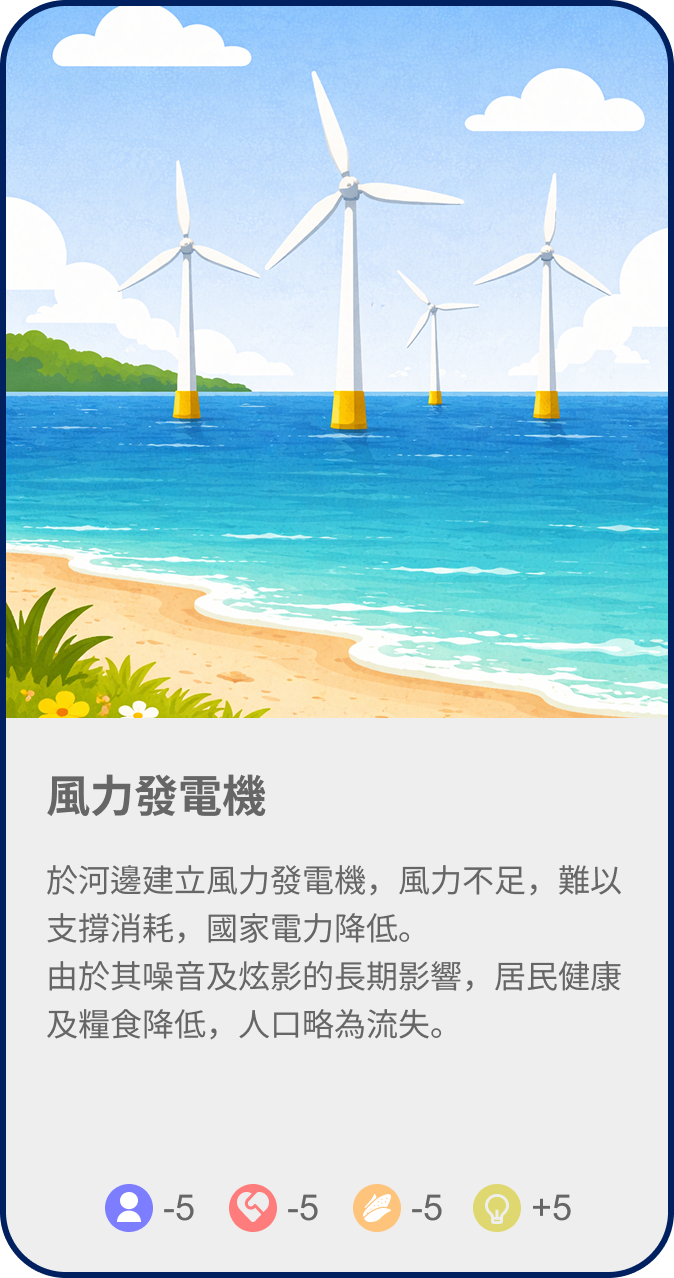
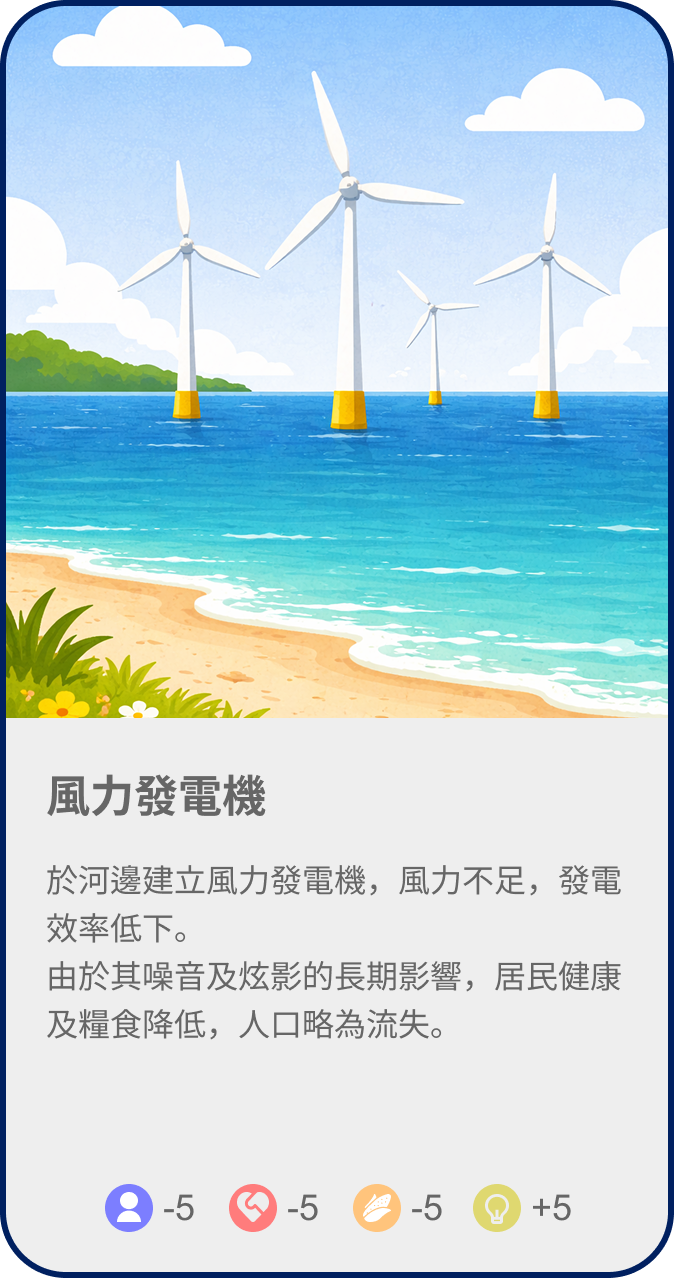
風域完成

Changed region(s): [[0.3116, 0.7019, 0.592, 0.7324], [0.0623, 0.7019, 0.2493, 0.7324], [0.8101, 0.6714, 0.9347, 0.7019]]

diff --git a/sevenzhe/front-end/src/views/ChatRoom.vue b/sevenzhe/front-end/src/views/ChatRoom.vue
@@ -271,6 +271,9 @@ const policyCardData: Record<number, { title: string; image: string }> = {
   19: { title: '不砍伐闊葉林換取經濟',   image: '/policyCards/木域/不種植.png' },
   18: { title: '砍伐闊葉林改為種植經濟作物', image: '/policyCards/木域/種植.png' },
   20: { title: '不建設風力發電機',        image: '/policyCards/風域/不建設.png' },
+  21: { title: '外海建立離岸風力發電機',  image: '/policyCards/風域/外海.png' },
+  22: { title: '出海口建立風力發電機',    image: '/policyCards/風域/出海口.png' },
+  23: { title: '河邊建立風力發電機',      image: '/policyCards/風域/河邊.png' },
   24: { title: '不大力推行觀光',          image: '/policyCards/空域/不推行.png' },
 };
 
@@ -356,6 +359,14 @@ const domainMapPlacement: Record<string, MapPlacement> = {
       { x: 4, y: -7, policyId: 18 },
     ],
   },
+  風域: {
+    image: '/地圖放置區/風力放置區.png',
+    positions: [
+      { x: 2,   y: -4.5, policyId: 22 },
+      { x: 8.5, y: -1,   policyId: 21 },
+      { x: 8,   y: -4.5, policyId: 23 },
+    ],
+  },
 };
 
 // 各域地圖觸發條件：'yes' = 選是才顯示，'no' = 選否才顯示
@@ -367,6 +378,7 @@ const domainMapTrigger: Record<string, 'yes' | 'no'> = {
   水域: 'no',
   雷域: 'yes',
   木域: 'yes',
+  風域: 'yes',
 };
 
 async function selectMapPosition(policyId: number) {